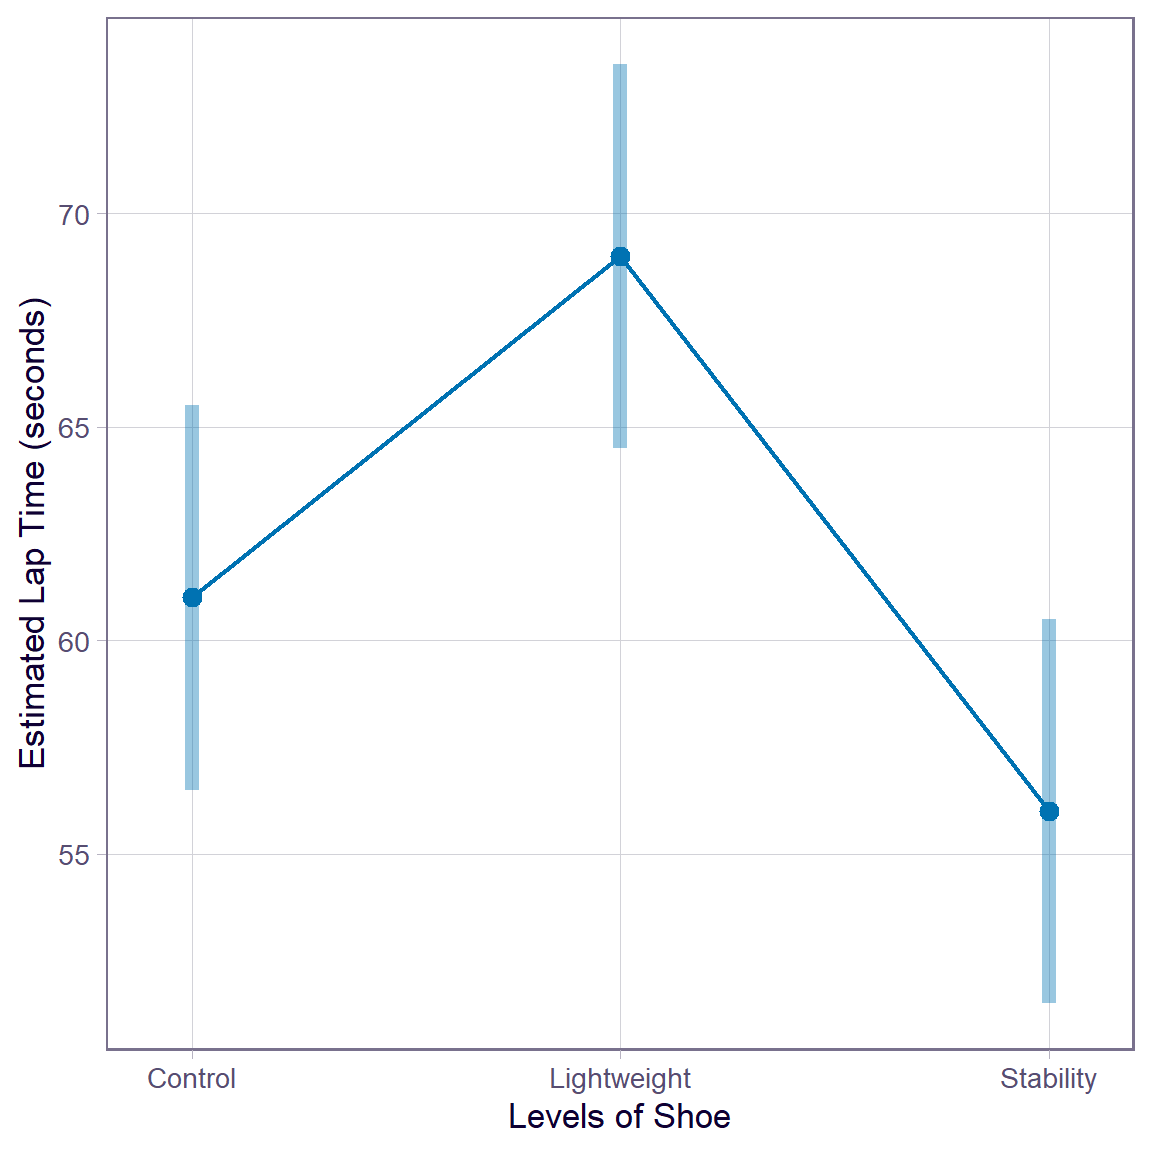
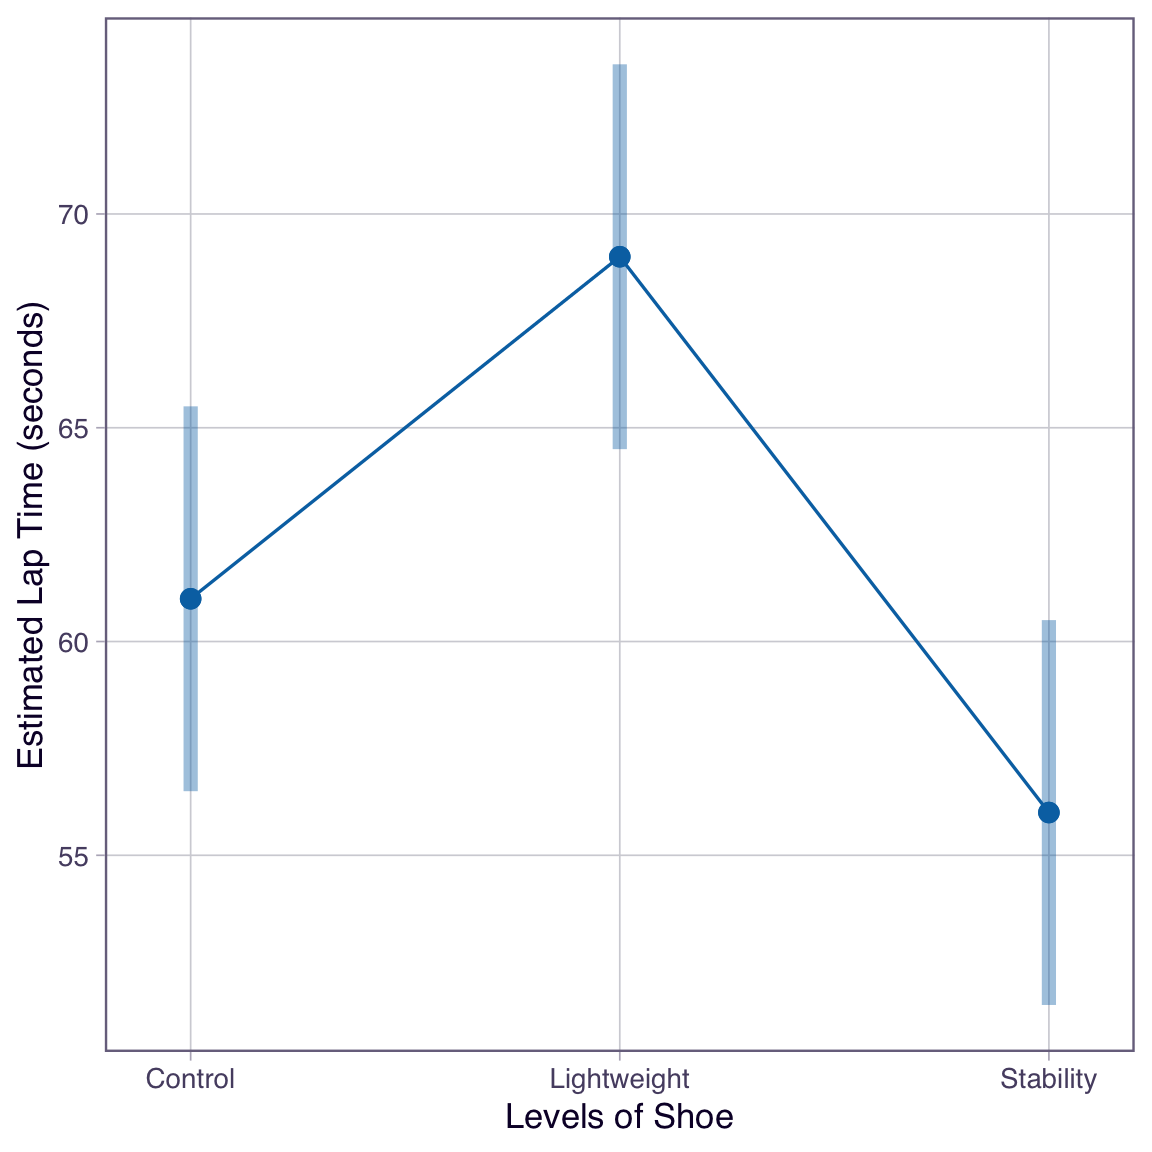
update slides

diff --git a/flipped-style/02-crd/024-slides-Inference-for-Means.html b/flipped-style/02-crd/024-slides-Inference-for-Means.html
@@ -241,7 +241,7 @@
 <div class="cell-output-display">
 <div class="quarto-figure quarto-figure-center">
 <figure>
-<p><img data-src="images/021-blueprint-shoe-type.png" class="quarto-figure quarto-figure-center" style="height:100.0%" width="526"></p>
+<p><img data-src="images/021-blueprint-shoe-type.png" class="quarto-figure quarto-figure-center" style="height:100.0%"></p>
 </figure>
 </div>
 </div>
@@ -394,8 +394,8 @@ Confidence level used: 0.95 </code></pre>
 </section>
 <section id="interpretation-of-results" class="slide level2">
 <h2>Interpretation of Results</h2>
-<p>The estimated mean 400m lap time for runners wearing the control shoe is 62 seconds (s.e. = 1.41).</p>
-<p>We are 95% confident the population mean 400m lap time for all runners wearing the control shoe is between 51.5 and 60.5 seconds.</p>
+<p>The estimated mean 400m lap time for runners wearing the control shoe is 61 seconds (s.e. = 1.41).</p>
+<p>We are 95% confident the population mean 400m lap time for all runners wearing the control shoe is between 56.5 and 65.5 seconds.</p>
 <p>These results apply to all runner similar to those in our study under similar conditions.</p>
 
 </section>
@@ -617,80 +617,42 @@ Confidence level used: 0.95 </code></pre>
       });
     </script>
     
-
     <script>
-
       // htmlwidgets need to know to resize themselves when slides are shown/hidden.
-
       // Fire the "slideenter" event (handled by htmlwidgets.js) when the current
-
       // slide changes (different for each slide format).
-
       (function () {
-
         // dispatch for htmlwidgets
-
         function fireSlideEnter() {
-
           const event = window.document.createEvent("Event");
-
           event.initEvent("slideenter", true, true);
-
           window.document.dispatchEvent(event);
-
         }
-
-    
 
         function fireSlideChanged(previousSlide, currentSlide) {
-
           fireSlideEnter();
 
-    
-
           // dispatch for shiny
-
           if (window.jQuery) {
-
             if (previousSlide) {
-
               window.jQuery(previousSlide).trigger("hidden");
-
             }
-
             if (currentSlide) {
-
               window.jQuery(currentSlide).trigger("shown");
-
             }
-
           }
-
         }
-
-    
 
         // hookup for slidy
-
         if (window.w3c_slidy) {
-
           window.w3c_slidy.add_observer(function (slide_num) {
-
             // slide_num starts at position 1
-
             fireSlideChanged(null, w3c_slidy.slides[slide_num - 1]);
-
           });
-
         }
 
-    
-
       })();
-
     </script>
-
-    
 
     <script id="quarto-html-after-body" type="application/javascript">
       window.document.addEventListener("DOMContentLoaded", function (event) {
